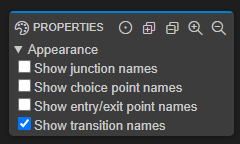
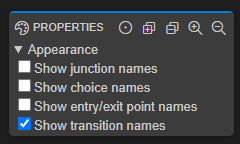
RIC-538: Doc updates related to settings

Changed region(s): [[0.4375, 0.5556, 0.7583, 0.6667]]

diff --git a/docs-sources/settings.md b/docs-sources/settings.md
@@ -1,0 +1,58 @@
+{$product.name$} provides several settings that can be used for configuring many aspects of how it works. To view these settings perform **File - Preferences - Settings** and then select **Extensions - {$product.name$}**.
+
+Below is a table that lists all {$product.name$} settings. Each setting is described in a section of its own below the table.
+
+<p id="settings"/>
+
+| Setting | Id | Purpose | 
+|----------|:-------------|:-------------|
+| [Language Server - Jvm](#jvm) | rtistic.languageServer.jvm | Set the JVM to use for running the {$product.name$} language server
+| [Language Server - Jvm Args](#jvm-args) | rtistic.languageServer.jvmArgs | Set arguments for the JVM that runs the {$product.name$} language server
+| [Validation - Rule Configuration](#rule-configuration) | rtistic.validation.ruleConfiguration | Customize which validation rules to run on Art files and their severity
+| [Build - Output Folder](#output-folder) | rtistic.build.outputFolder | Set the location where to place generated code
+| [Diagram - Show Junction Names](#show-junction-names) | rtistic.diagram.showJunctionNames | Show junction names on state diagrams
+| [Diagram - Show Choice Names](#show-choice-names) | rtistic.diagram.showChoiceNames | Show choice names on state diagrams
+| [Diagram - Show Entry Exit Point Names](#show-entry-exit-point-names) | rtistic.diagram.showEntryExitPointNames | Show entry/exit point names on state diagrams
+| [Diagram - Show Transition Names](#show-transition-names) | rtistic.diagram.showTransitionNames | Show transition names on state diagrams
+| [Diagram - Show Diagnostics](#show-diagnostics) | rtistic.diagram.showDiagnostics | Show error, warning and information icons on diagrams
+
+## Language Server
+Settings related to running the {$product.name$} language server.
+
+### Jvm
+When the {$product.name$} extension gets activated it will attempt to launch its language server. If this setting holds a valid location of a Java VM (JDK or JRE) it will be used for running the language server. Otherwise the `JAVA_HOME` environment variable will be used. If that is also not set, it's required to have `java` in the path. See [Setup Java](installing.md#setup-java) for more information.
+
+### Jvm Args
+By default the JVM is launched with the argument `-Xmx4024m`. Refer to the documentation of your JVM for a list of available JVM arguments.
+
+## Validation
+Settings related to validation of Art files.
+
+### Rule Configuration
+This setting can be used for customizing which validation rules that should run when you edit Art files. You can also completely disable those validation rules you don't want to run. For more information see [this page](validation.md#configuring-validation).
+
+## Build
+Settings related to building Art files, via C++ code, to libraries or executables.
+
+### Output Folder
+This setting specifies a folder where all generated code will be placed. More precisely, it's used for resolving relative paths specified in TCs (using the TC property [`targetFolder`](building/transformation-configurations.md#targetfolder)). If you leave this setting unset, relative paths will instead be resolved against the location of the TCs. The `Output Folder` must be specified as an absolute path that points at a writable folder in the file system.
+
+## Diagram
+Settings related to graphical diagrams that visualize elements of Art files.
+
+### Show Junction Names
+Junctions usually have short and uninteresting names, and are therefore by default not shown on state diagrams. Turn on this setting to make them visible. Note that a certain state diagram may override this setting by means of setting the corresponding diagram property in the diagram's Properties view. See [Diagram Filters](working-with-art/diagrams.md#diagram-filters) for more information.
+
+### Show Choice Names
+Choices usually have short and uninteresting names, and are therefore by default not shown on state diagrams. Turn on this setting to make them visible. Note that a certain state diagram may override this setting by means of setting the corresponding diagram property in the diagram's Properties view. See [Diagram Filters](working-with-art/diagrams.md#diagram-filters) for more information.
+
+### Show Entry Exit Point Names
+Entry and exit points usually have short and uninteresting names, and are therefore by default not shown on state diagrams. Turn on this setting to make them visible. Note that a certain state diagram may override this setting by means of setting the corresponding diagram property in the diagram's Properties view. See [Diagram Filters](working-with-art/diagrams.md#diagram-filters) for more information.
+
+### Show Transition Names
+If you feel that showing the names of transitions makes state diagrams too cluttered you can turn off this setting. By default they are shown. Note that a certain state diagram may override this setting by means of setting the corresponding diagram property in the diagram's Properties view. See [Diagram Filters](working-with-art/diagrams.md#diagram-filters) for more information.
+
+### Show Diagnostics
+By default diagram elements will be decorated by icons corresponding to diagnostics generated by [validation rules](validation.md#validation-rules). Turn off this setting if you don't want to see these icons on diagrams.
+
+There are three kinds of diagnostic icons corresponding to the problem severity levels Error, Warning and Information. See [Problem Severity](validation.md#problem-severity) for more information.

diff --git a/docs-sources/installing.md b/docs-sources/installing.md
@@ -62,7 +62,7 @@ After a successful installation you need to perform a few configuration steps be
 
 {$product.name$} follows the steps below in priority order when it looks for an appropriate JVM to use:
 
-1) The configuration setting `rtistic.languageServer.jvm` is examined. If it specifies a path to a JVM it will be used. You can edit this configuration setting by invoking **File - Preferences - Settings** and then type the configuration setting id mentioned above in the filter box. This setting needs to be edited in the `settings.json` file.
+1) The setting [`rtistic.languageServer.jvm`](settings.md#jvm) is examined. If it specifies a path to a JVM it will be used. You can edit this setting by invoking **File - Preferences - Settings** and then type the setting id mentioned above in the filter box.
 
 ![](images/jvm_setting.png)
 
@@ -70,18 +70,17 @@ After a successful installation you need to perform a few configuration steps be
    
 3) An attempt is made to launch the `java` command without using a path. The first JVM found in the system path, if any, will be used.
 
+You may also need to adjust the arguments for the JVM. By default the JVM is launched with the below argument:
+
+`-Xmx4024m`
+
+To change the JVM arguments set the setting [`rtistic.languageServer.jvmArgs`](settings.md#jvm-args) shown in the image above.
+
 When the {$product.name$} extension is activated information about which Java that is used is printed to the Art Server output channel.
 
 ![](images/art-server-log.png)
 
-You may also need to adjust the arguments for the JVM. By default the JVM is launched with the below arguments:
-
-`-Xverify:none -Xmx4024m`
-
-To change the JVM arguments set the configuration setting `rtistic.languageServer.jvmArgs`.
-
-#### Setup License
-If you want to use all features of {$product.name$} you need a license. The {$product.name$} Community Edition doesn't require a license, but can on the other hand not be used for commercial purposes.
+Here you will also see if the launching of the language server for some reason failed.
 
 #### Setup C++ Build Tools
 When {$product.name$} builds generated C++ code it uses C++ build tools such as a make tool, a C++ compiler, a C++ linker etc. These tools need to be in the path when you start Visual Studio Code or Eclipse Theia. If you have multiple C++ build tools installed, make sure the correct ones are present in the path before launching Visual Studio Code or Eclipse Theia. For example, if you use the Microsoft C++ compiler, it's recommended to launch from a Visual Studio native tools command prompt with the correct version (e.g. 32 bit or 64 bit). Build errors caused by inconsistent versions of C++ build tools being used can be tricky to find.

diff --git a/docs-sources/building/transformation-configurations.md b/docs-sources/building/transformation-configurations.md
@@ -144,9 +144,11 @@ Specifies which TargetRTS configuration to use. The TargetRTS location specified
 This property maps to a subfolder of the [target folder](#targetfolder) where all generated files that are not source code will be placed. This includes for example makefiles and the files that are produced by these makefiles (typically binaries). The default value of this property is `default`.
 
 ### targetFolder
-Specifies where files generated from the TC will be placed. This property is usually just set to a name, and then a target folder with that name will be created next to the folder that contains the TC. That target folder is then added as a workspace folder, which will cause you to be prompted about if you trust the authors of the files in that folder. It's safe to answer yes since all files in that folder are automatically generated by {$product.name$}. 
+Specifies where files generated from the TC will be placed. This property is usually just set to a name, and then a target folder with that name will be created. When the build runs from the UI, that target folder is then added as a workspace folder, which will cause you to be prompted about if you trust the authors of the files in that folder. It's safe to answer yes since all files in that folder are automatically generated by {$product.name$}. 
 
-You can also specify an absolute path to a target folder if you prefer generated files to be placed somewhere else. If you instead specify a relative path it gets resolved relative to the folder that contains the TC. The specified target folder will be created if it doesn't already exist. Use forward slashes as path separator. 
+You can specify an absolute path to a target folder if you prefer generated files to be placed in a certain location that is accessible to everyone in the team, for example a shared network drive. If you instead use a relative path it will get resolved relative to a desired output folder. For a UI build the output folder is set using the setting [`rtistic.build.outputFolder`](../settings.md#output-folder). When building with the Art Compiler the output folder is instead set using the [`--out`](art-compiler.md#out) option. If you haven't set the desired output folder, relative paths will instead be resolved against the folder that contains the TC where the `targetFolder` property is set. 
+
+Use forward slashes as path separator in this property. 
 
 If this property is not specified it defaults to the name of the TC, with `_target` appended. For example, if the TC is called `app.tcjs`, the target folder will default to `app_default`.
 

diff --git a/docs-sources/building/index.md b/docs-sources/building/index.md
@@ -30,7 +30,7 @@ Removes the target workspace folder produced when building a TC. This means that
 ## Build Messages
 When you use the **Build** or **Run** commands on a TC, messages will be printed in two places depending on what kind of message it is:
 
-1. The **Terminal** view. Messages produced when compiling and linking the generated C++ code will be printed here, for example compilation errors. In many cases such messages will have a reference to a generated C++ file which you can ++ctrl++-click to open. In case of **Run** messages printed by the running executable will also be printed in the Terminal view. To terminate a running executable you can press ++ctrl+c++ in the Terminal view.
+1. The **Terminal** view. Messages produced when compiling and linking the generated C++ code will be printed here, for example compilation errors. In many cases such messages will have a reference to a generated C++ file which you can ++ctrl++-click to open. In case of **Run**, messages printed by the running executable will also be printed in the Terminal view. To terminate a running executable you can press ++ctrl+c++ in the Terminal view.
 2. The **Art Build** output channel. All other build messages are printed here, for example messages emitted by the C++ code generator. In some cases these messages will have a reference to a file (e.g. an input TC or Art file), and sometimes even to an element within that file. You can ++ctrl++-click these to open the file and navigate to the element. In case the build fails (e.g. because of compilation errors) a hyperlink will be present for opening the Terminal view where the errors that caused the build to fail can be found.
 
 ![](images/art-build-output.png)

diff --git a/docs-sources/building/art-compiler.md b/docs-sources/building/art-compiler.md
@@ -14,7 +14,7 @@ To launch the Art Compiler you need a Java Virtual Machine (JVM). You should use
 java <JVM options> -jar <extension-path>/bin/artcompiler.jar <Art Compiler options>
 ```
 
-Often you don't need to use any JVM option, but if the application is huge you may need to increase the memory of the JVM. Refer to the documentation of your JVM for a list of available JVM options. You may want to use the same JVM options as are used when launching the Art Language Server (see the configuration setting `rtistic.languageServer.jvmArgs`), but it's not required to do so.
+Often you don't need to use any JVM option, but if the application is huge you may need to increase the memory of the JVM. Refer to the documentation of your JVM for a list of available JVM options. You may want to use the same JVM options as are used when launching the Art Language Server (see the setting [`rtistic.languageServer.jvmArgs`](../settings.md#jvm-args)), but it's not required to do so.
 
 To test that the Art Compiler can be successfully launched you can try to invoke it without any arguments. You should see an output similar to the below:
 

diff --git a/docs-sources/working-with-art/diagrams.md b/docs-sources/working-with-art/diagrams.md
@@ -75,7 +75,7 @@ Diagram filter properties that have been modified are shown in boldface, and a "
 
 ![](images/diagram-filters-restore-default.png)
 
-You can also set diagram filters globally using configuration settings. Such filters will apply to all diagrams unless a more specific filter has been set on an individual diagram. You can find these configuration settings by filtering on `rtistic.diagram` in the Settings:
+You can also set diagram filters globally using [diagram settings](../settings.md#diagram). Such filters will apply to all diagrams unless a more specific filter has been set on an individual diagram. You can find these settings by filtering on `rtistic.diagram` in the Settings editor:
 
 ![](images/global-diagram-filters.png)
 

diff --git a/docs-sources/releases/index.md b/docs-sources/releases/index.md
@@ -1,3 +1,3 @@
-All releases of {$product.name$} are available on the [Visual Studio Marketplace](https://marketplace.visualstudio.com/items?itemName=HCLTechnologies.hcl-rtistic-ce).
+All releases of {$product.name$} are available on the [Visual Studio Marketplace](https://marketplace.visualstudio.com/items?itemName=HCLTechnologies.hcl-rtistic-ce) and the [Open VSX Registry](https://open-vsx.org/extension/HCLTechnologies/hcl-rtistic-ce).
 
 Release notes can be found [here](CHANGELOG.md).
